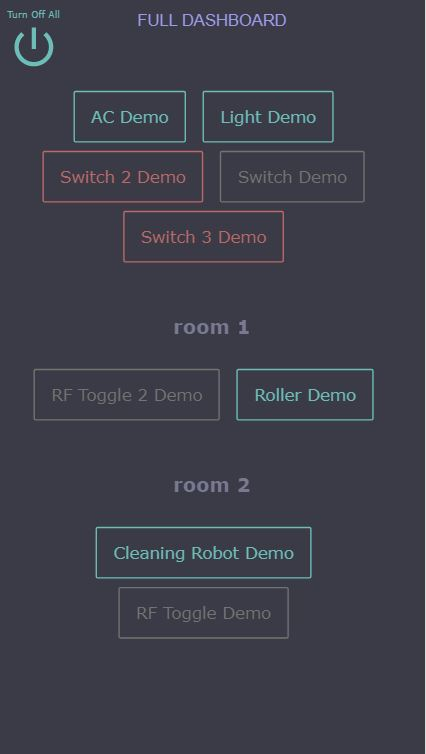
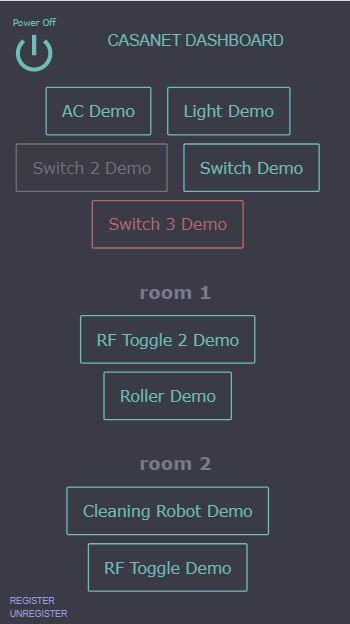
Divided lite dashboard to bars and content #96

diff --git a/frontend/src/light-app/index.html b/frontend/src/light-app/index.html
@@ -10,35 +10,38 @@
 </head>
 
 <body>
-    <div class="power-off-container">
-        <div id="power-on" class="hide" onclick="powerAllOff()">
-            <p class="power-on-text power-on-item">Power Off</p>
-            <svg class="power-on-item" xmlns="http://www.w3.org/2000/svg" width="50" height="50" viewBox="0 0 24 24">
-                <path fill="none" d="M0 0h24v24H0z" />
-                <path
-                    d="M13 3h-2v10h2V3zm4.83 2.17l-1.42 1.42C17.99 7.86 19 9.81 19 12c0 3.87-3.13 7-7 7s-7-3.13-7-7c0-2.19 1.01-4.14 2.58-5.42L6.17 5.17C4.23 6.82 3 9.26 3 12c0 4.97 4.03 9 9 9s9-4.03 9-9c0-2.74-1.23-5.18-3.17-6.83z" />
-            </svg>
+    <div class="app-bar-container">
+        <div class="power-off-container">
+            <div id="power-on" class="hide" onclick="powerAllOff()">
+                <p class="power-on-text power-on-item">Power Off</p>
+                <svg class="power-on-item" xmlns="http://www.w3.org/2000/svg" width="50" height="50"
+                    viewBox="0 0 24 24">
+                    <path fill="none" d="M0 0h24v24H0z" />
+                    <path
+                        d="M13 3h-2v10h2V3zm4.83 2.17l-1.42 1.42C17.99 7.86 19 9.81 19 12c0 3.87-3.13 7-7 7s-7-3.13-7-7c0-2.19 1.01-4.14 2.58-5.42L6.17 5.17C4.23 6.82 3 9.26 3 12c0 4.97 4.03 9 9 9s9-4.03 9-9c0-2.74-1.23-5.18-3.17-6.83z" />
+                </svg>
+            </div>
+            <div id="power-off" class="hide">
+                <div style="margin-top: 13px;"></div>
+                <svg xmlns="http://www.w3.org/2000/svg" width="50" height="50" viewBox="0 0 24 24">
+                    <path fill="none" d="M0 0h24v24H0z" />
+                    <path
+                        d="M13 3h-2v10h2V3zm4.83 2.17l-1.42 1.42C17.99 7.86 19 9.81 19 12c0 3.87-3.13 7-7 7s-7-3.13-7-7c0-2.19 1.01-4.14 2.58-5.42L6.17 5.17C4.23 6.82 3 9.26 3 12c0 4.97 4.03 9 9 9s9-4.03 9-9c0-2.74-1.23-5.18-3.17-6.83z" />
+                </svg>
+            </div>
+            <div id="power-sync" class="hide">
+                <div style="margin-top: 13px;"></div>
+                <svg xmlns="http://www.w3.org/2000/svg" width="50" height="50" viewBox="0 0 24 24">
+                    <path d="M0 0h24v24H0z" fill="none" />
+                    <path
+                        d="M6 10c-1.1 0-2 .9-2 2s.9 2 2 2 2-.9 2-2-.9-2-2-2zm12 0c-1.1 0-2 .9-2 2s.9 2 2 2 2-.9 2-2-.9-2-2-2zm-6 0c-1.1 0-2 .9-2 2s.9 2 2 2 2-.9 2-2-.9-2-2-2z" />
+                </svg>
+            </div>
         </div>
-        <div id="power-off" class="hide">
-            <div style="margin-top: 13px;"></div>
-            <svg xmlns="http://www.w3.org/2000/svg" width="50" height="50" viewBox="0 0 24 24">
-                <path fill="none" d="M0 0h24v24H0z" />
-                <path
-                    d="M13 3h-2v10h2V3zm4.83 2.17l-1.42 1.42C17.99 7.86 19 9.81 19 12c0 3.87-3.13 7-7 7s-7-3.13-7-7c0-2.19 1.01-4.14 2.58-5.42L6.17 5.17C4.23 6.82 3 9.26 3 12c0 4.97 4.03 9 9 9s9-4.03 9-9c0-2.74-1.23-5.18-3.17-6.83z" />
-            </svg>
-        </div>
-        <div id="power-sync" class="hide">
-            <div style="margin-top: 13px;"></div>
-            <svg xmlns="http://www.w3.org/2000/svg" width="50" height="50" viewBox="0 0 24 24">
-                <path d="M0 0h24v24H0z" fill="none" />
-                <path
-                    d="M6 10c-1.1 0-2 .9-2 2s.9 2 2 2 2-.9 2-2-.9-2-2-2zm12 0c-1.1 0-2 .9-2 2s.9 2 2 2 2-.9 2-2-.9-2-2-2zm-6 0c-1.1 0-2 .9-2 2s.9 2 2 2 2-.9 2-2-.9-2-2-2z" />
-            </svg>
-        </div>
-    </div>
 
-    <div>
-        <a class="dashboard-link" target="_blank" href="/">Full dashboard</a>
+        <div class="dashboard-link-container">
+            <a class="casanet-title" target="_blank" href="/">Casanet dashboard</a>
+        </div>
     </div>
 
     <div id="welcome-message">
@@ -48,11 +51,12 @@
     <div id="minions-container">
     </div>
 
-    <div class="sw-container">
-        <a class="sw-command" onclick="registerSW()">register</a>
+    <div class="bottom-bar sw-container">
+        <a class="bottom-bar-command" onclick="registerSW()">register</a>
         <br>
-        <a class="sw-command" onclick="unRegisterSW()">unregister</a>
+        <a class="bottom-bar-command" onclick="unRegisterSW()">unregister</a>
     </div>
+
 </body>
 <script src="./index.js"></script>
 

diff --git a/frontend/src/light-app/index.css b/frontend/src/light-app/index.css
@@ -13,10 +13,43 @@ body {
   display: none;
 }
 
+.app-bar-container {
+  background-color: #3b3b47;
+  display: inline-flex;
+  position: fixed;
+  height: 80px;
+  width: 100vh;
+  top: 0;
+  left: 0;
+  align-items: center;
+  text-align: center;
+}
+
 .power-off-container {
   position: absolute;
-  margin: 0;
+  margin: 10px;
   padding: 0;
+}
+
+.dashboard-link-container {
+  position: absolute;
+  margin-left: calc(50vw - 70px);
+}
+
+.casanet-title {
+  color: #6dbdb9;
+  font-family: helvetica;
+  text-decoration: none;
+  text-transform: uppercase;
+}
+
+.casanet-title:hover {
+  color: #126d68;
+  cursor: pointer;
+}
+
+#minions-container {
+  margin-top: 80px;
 }
 
 #power-on {
@@ -42,23 +75,13 @@ body {
   color: #737471;
 }
 
-.dashboard-link {
-  color: rgb(124, 124, 182);
-  font-family: helvetica;
-  text-decoration: none;
-  text-transform: uppercase;
-}
-
-.dashboard-link:hover {
-  color: rgb(155, 155, 232);
-  cursor: pointer;
-}
 .room {
-  margin-top: 3em;
+  margin-top: 30px;
 }
 
 .room-name {
   color: #797990;
+  margin-bottom: 2px;
 }
 
 .button {
@@ -108,10 +131,10 @@ body {
   box-shadow: inset 1px 0 1px #33333d;
 }
 
-.sw-container {
-  position: absolute;
-  bottom: 0;
-  text-align: left;
+.bottom-bar {
+  display: inline-block;
+  position: fixed;
+  bottom: 5px;
   color: rgb(155, 155, 232);
   font-family: helvetica;
   text-decoration: none;
@@ -119,7 +142,12 @@ body {
   font-size: xx-small;
 }
 
-.sw-command:hover {
+.sw-container {
+  left: 10px;
+  text-align: left;
+}
+
+.bottom-bar-command:hover {
   color: rgb(97, 97, 192);
   cursor: pointer;
 }
